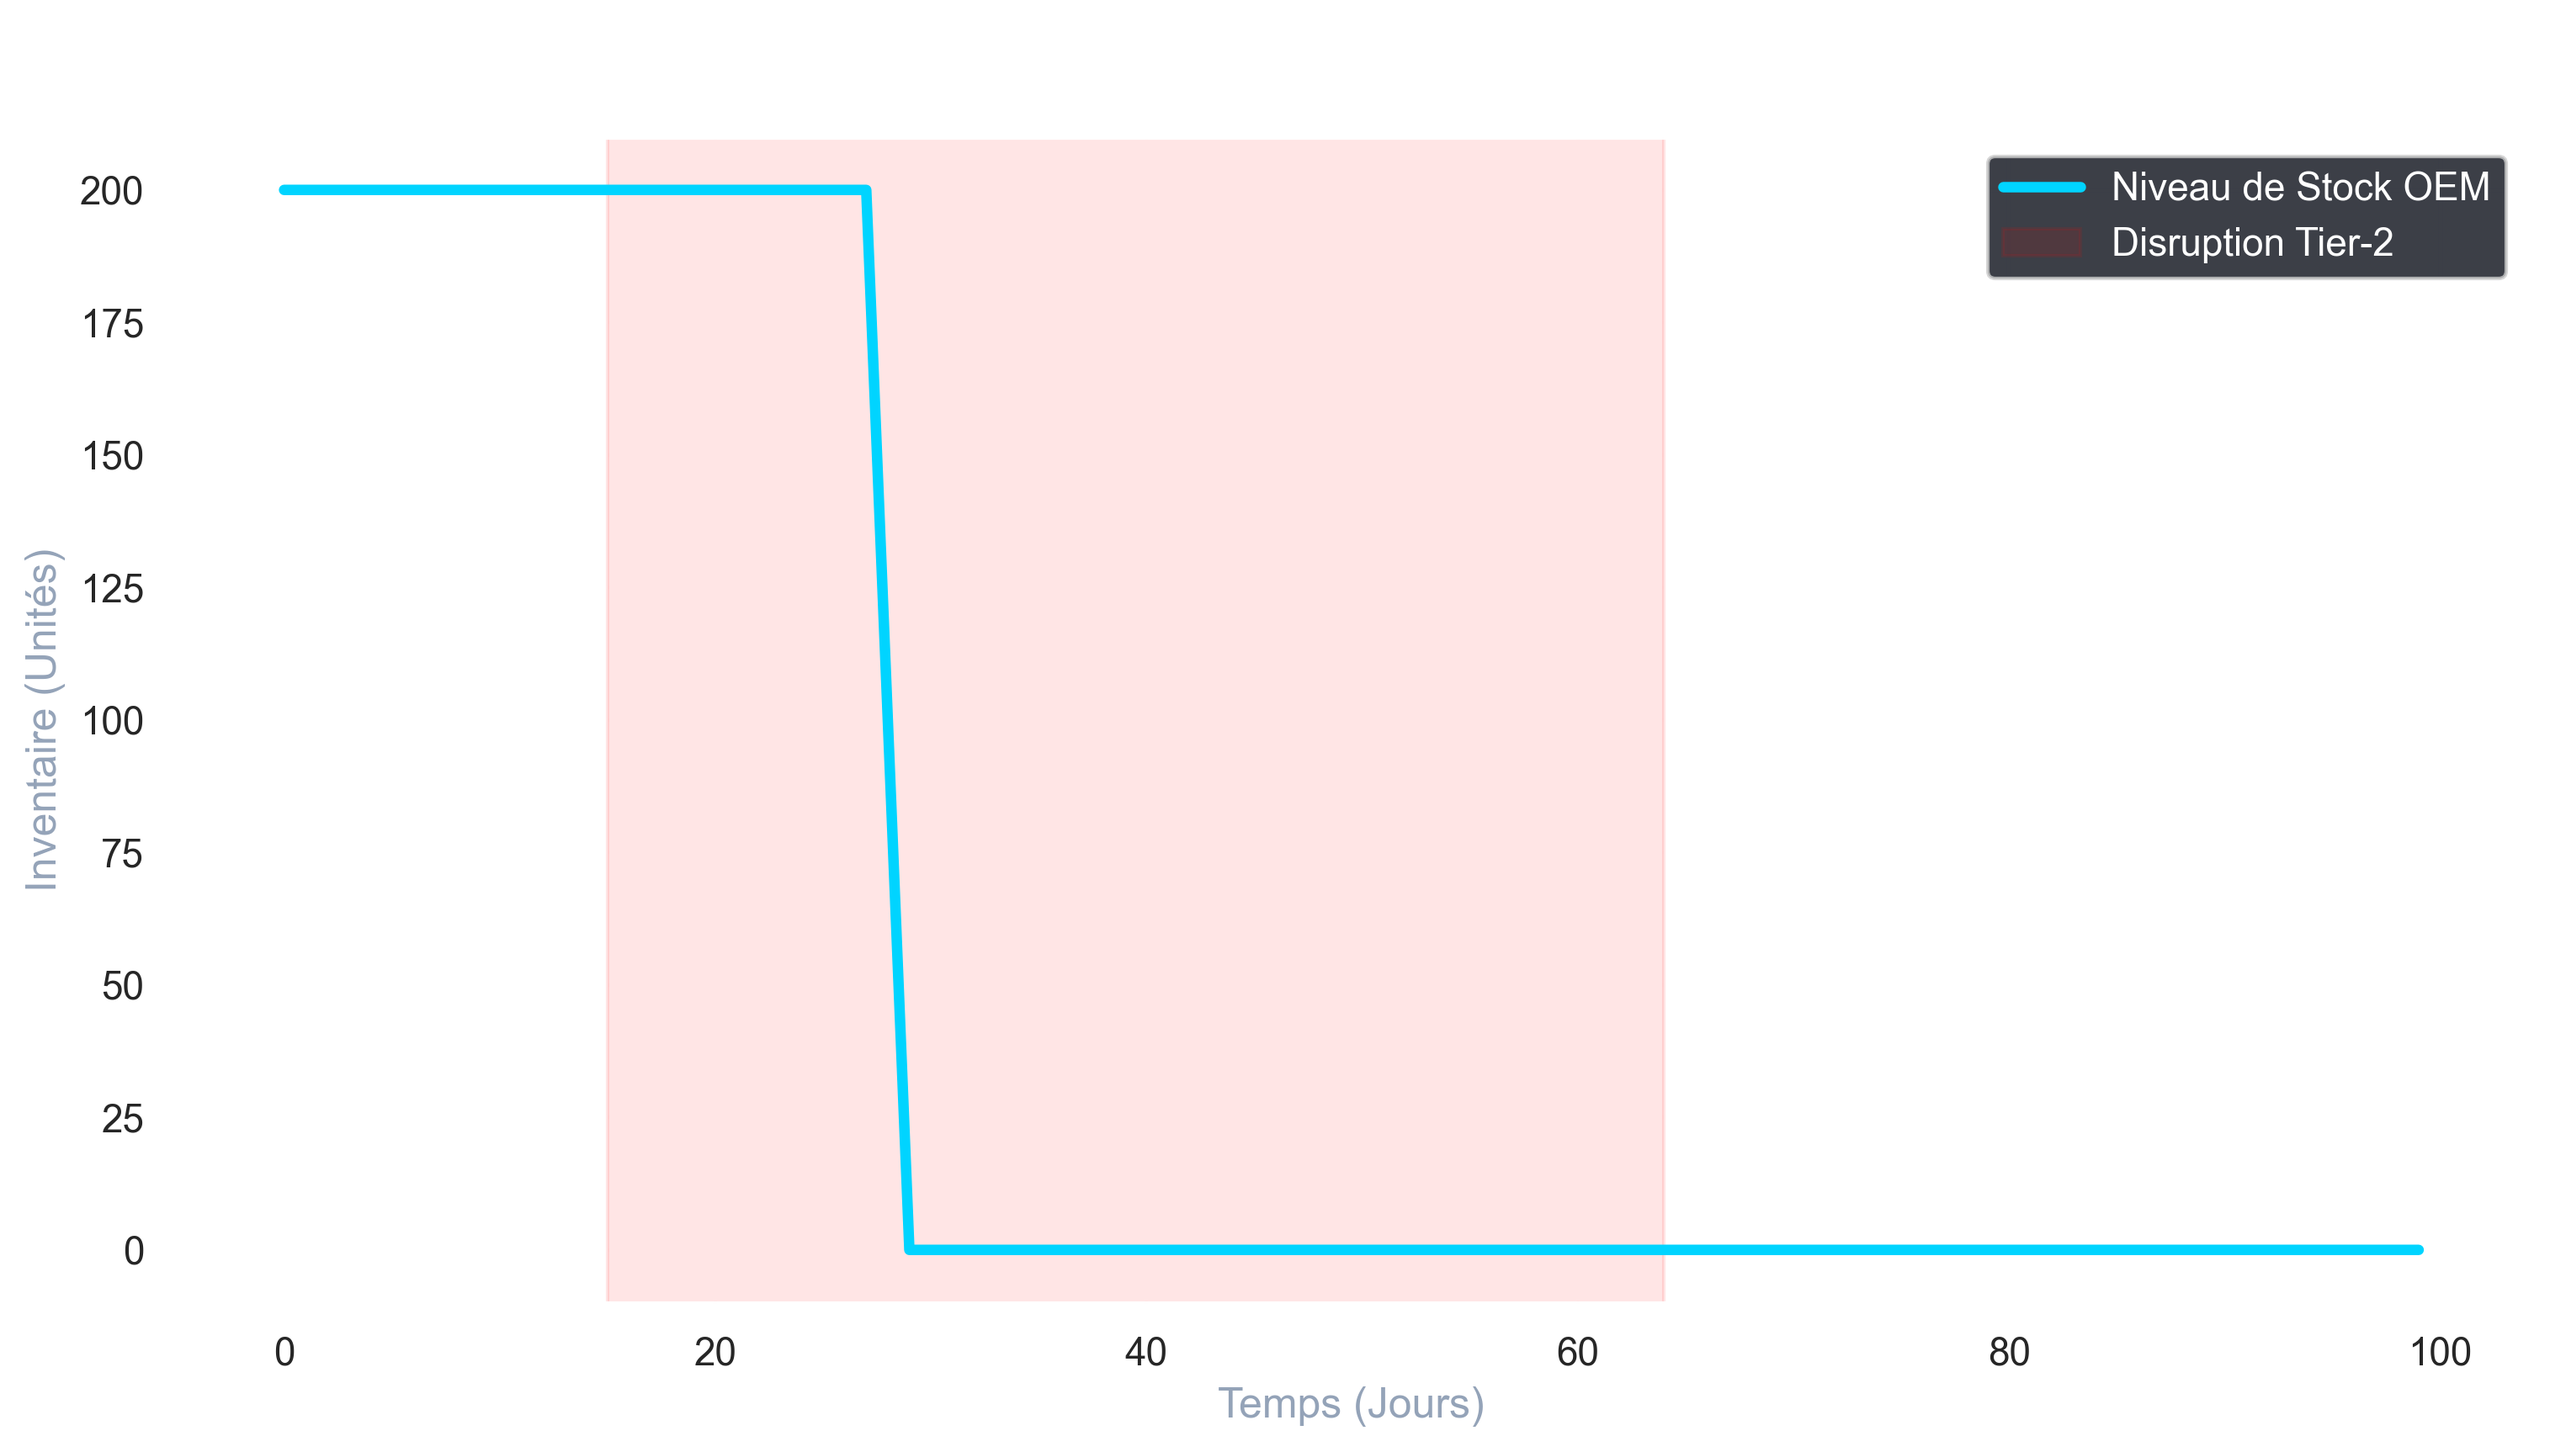
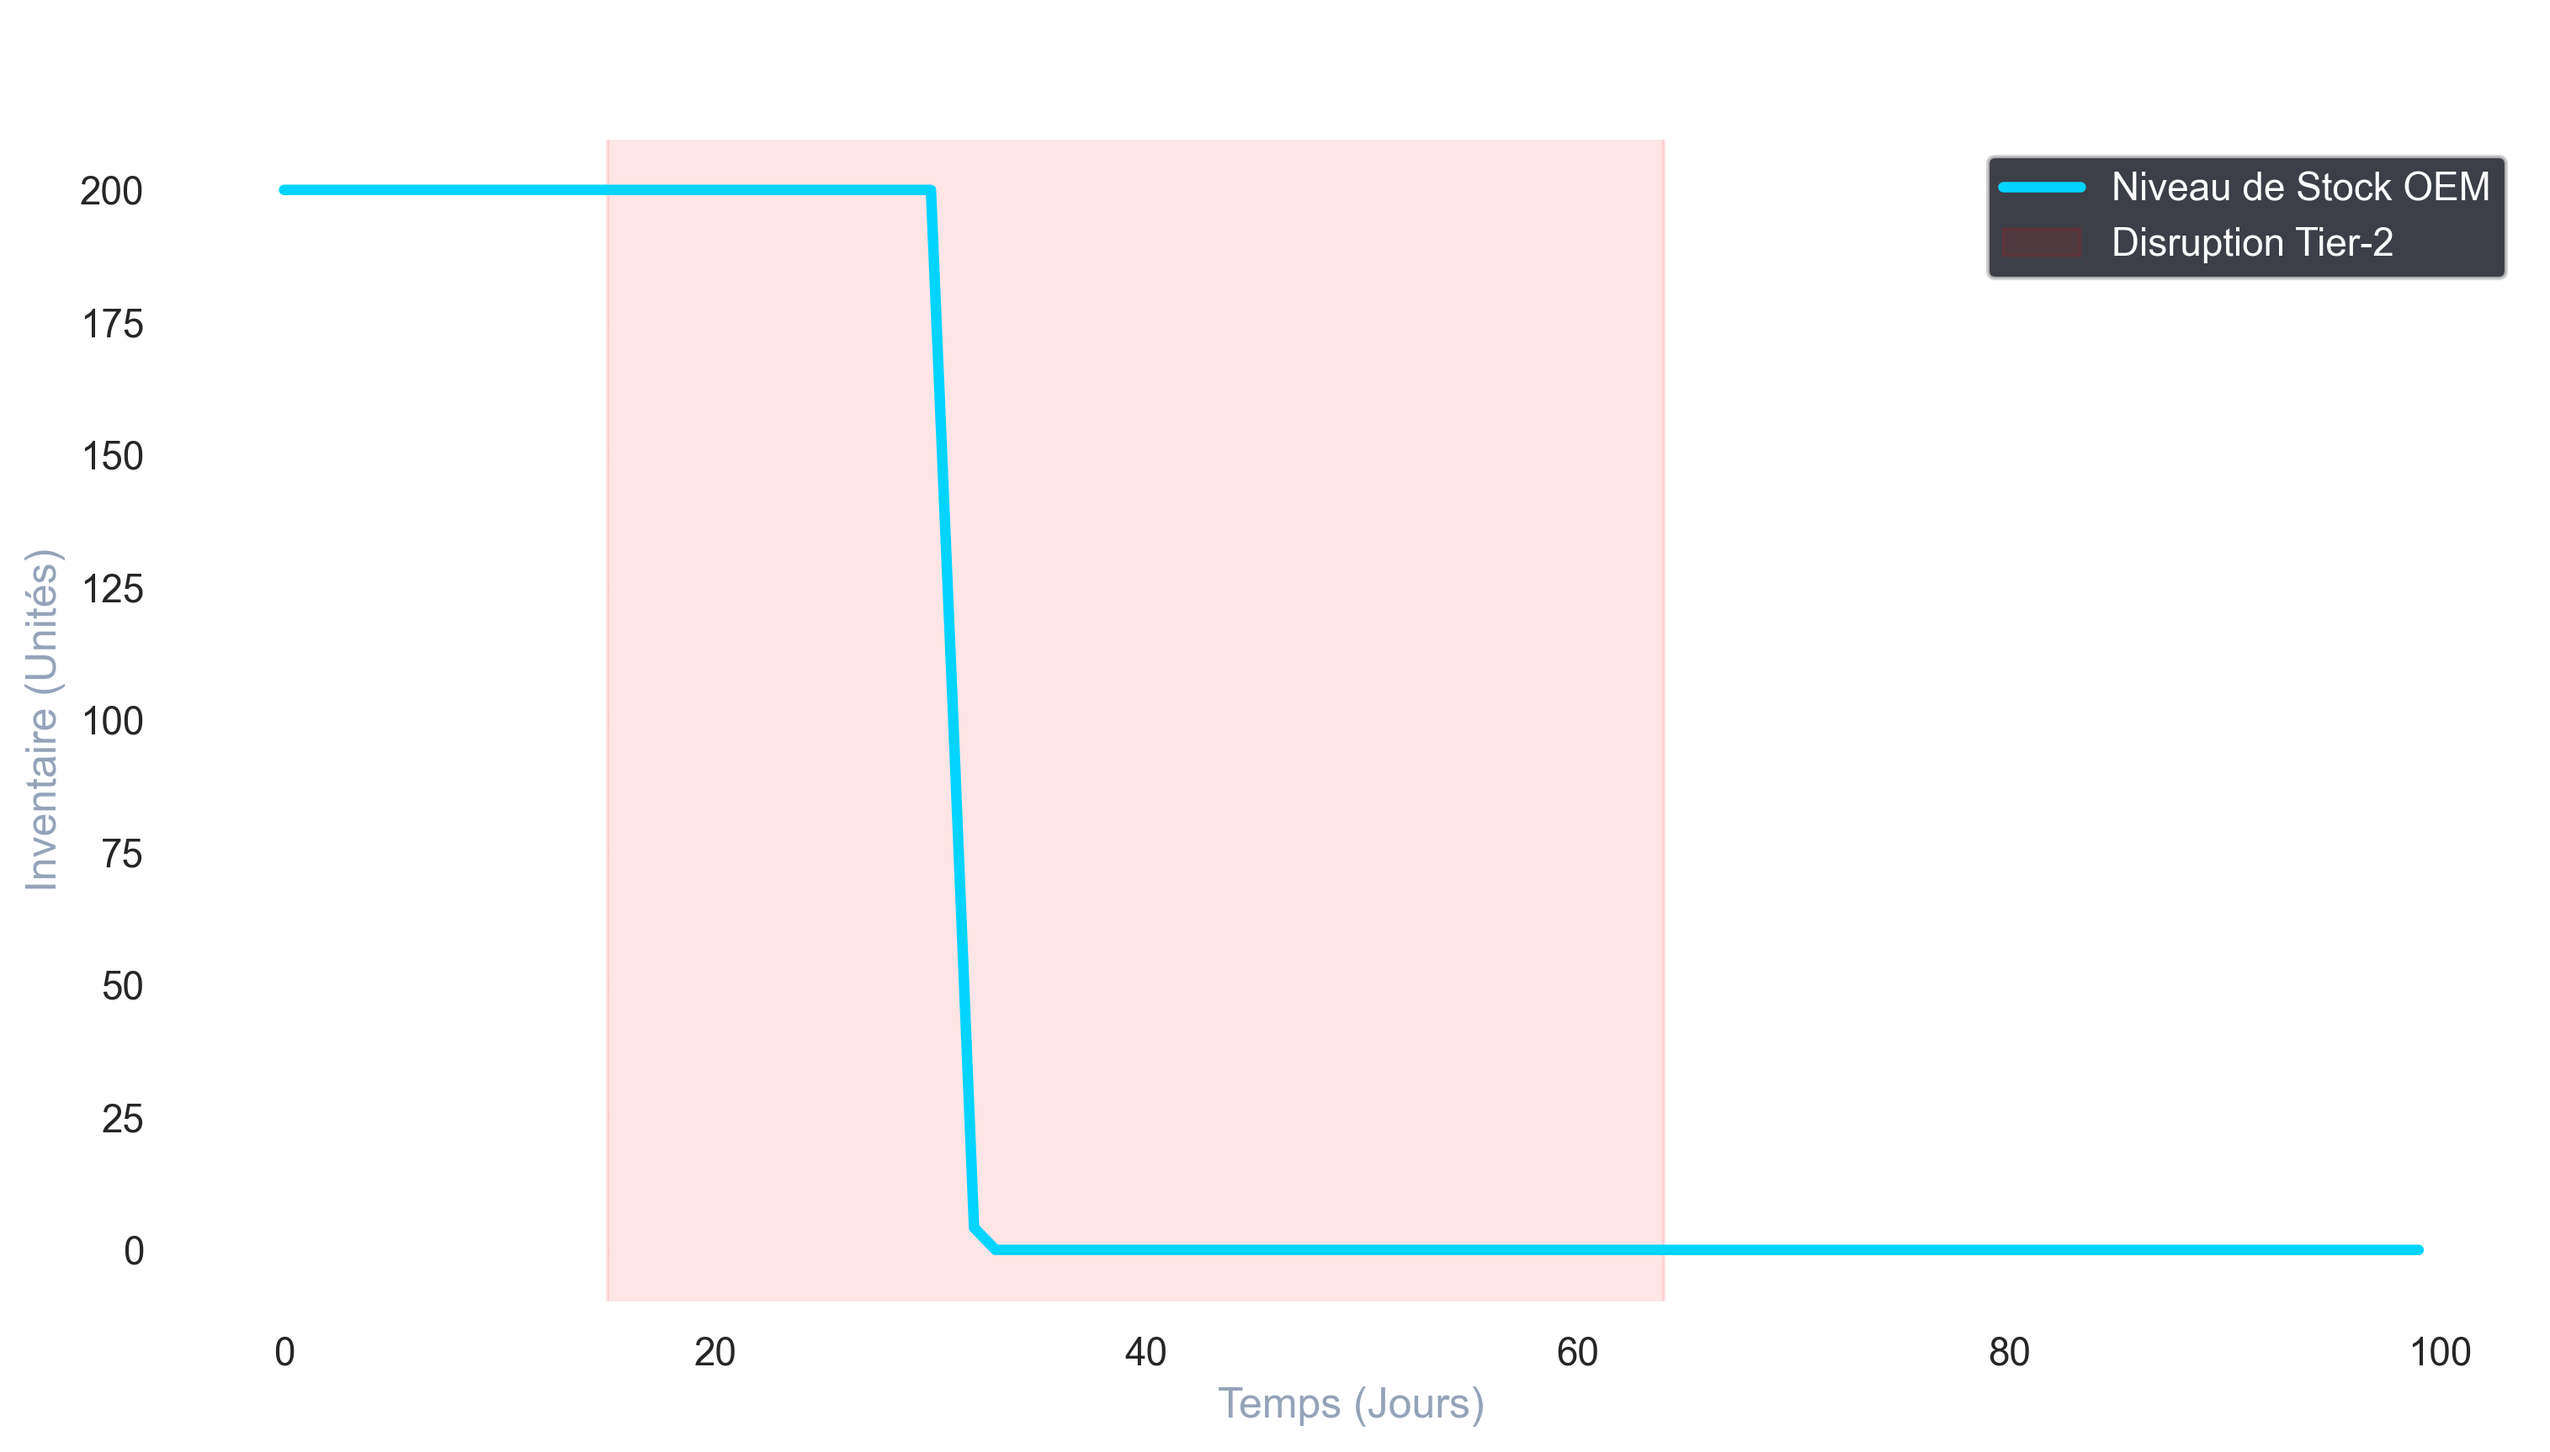
feat: add stochasticity and ramp-up logic

Changed region(s): [[0.3413, 0.1228, 0.4033, 0.8598]]

diff --git a/src/engine/simulation.py b/src/engine/simulation.py
@@ -1,12 +1,13 @@
 import simpy
+import random # IMPORT
 from typing import Optional
 from src.models.network import SCNetworkManager
 
 class ResilienceEngine:
     """
     Moteur de simulation de Jumeau Numérique (Digital Twin).
-    Intègre les concepts de 'Contingency Planning' (Ivanov) et 
-    'Agile Supply Chain' (Martin Christopher).
+    Intègre la stochasticité pour le réalisme et des stratégies de 
+    Contingency Planning (Dmitry Ivanov).
     """
     def __init__(self, env: simpy.Environment, network_manager: SCNetworkManager):
         self.env = env
@@ -17,63 +18,56 @@ class ResilienceEngine:
         node = self.nm.get_node(node_id)
         
         while True:
-            # 1. ÉTAT DE PANNE (Node Failure)
-            # Si le nœud lui-même subit une disruption (ex: grève interne)
+            # 1. ÉTAT DE PANNE DU NŒUD
             if node.status == "FAILED":
                 self._record_state(node_id, node.inventory)
                 yield self.env.timeout(1)
                 continue
 
-            # 2. STRATÉGIE DE RÉSILIENCE : DUAL SOURCING RÉACTIF
-            # On active le secours si le fournisseur principal (Asie) tombe
-            demand = 100 
-            
+            # Demande moyenne de 100 unités avec un écart-type de 5 (Loi Normale)
+            daily_demand = max(0, random.normalvariate(100, 5))
+
+            # 3. LOGIQUE DE RÉSILIENCE (Dual Sourcing & Ramp-up)
             if node_id == "EU_Elec_T1":
                 main_supplier = self.nm.get_node("AS_Semi_T2")
                 backup_supplier = self.nm.get_node("EU_BackUp_T2")
                 
                 if main_supplier.status == "FAILED":
-                    # OPTIMISATION : On achète 100% de la demande au secours
-                    # pour garantir un TTS indéfini (Zéro rupture)
-                    if backup_supplier.inventory >= demand:
-                        backup_supplier.inventory -= demand
-                        node.inventory += demand 
-                        print(f"[RESILIENCE] T={self.env.now}: Basculement total sur Backup Europe")
+                    # Modélisation d'une montée en charge (Ramp-up)
+                    # On ne récupère que 50% au début, puis 100% après 2 jours de crise
+                    capacity_available = 100 if self.env.now > 17 else 50
+                    if backup_supplier.inventory >= capacity_available:
+                        backup_supplier.inventory -= capacity_available
+                        node.inventory += capacity_available
+                        print(f"[STOCHASTIC] T={self.env.now}: Secours activé ({capacity_available} u.)")
 
-            # 3. FLUX NOMINAL (Just-in-Time)
+            # 4. FLUX DE MATIÈRES
             if input_node_id:
                 input_node = self.nm.get_node(input_node_id)
-                # Si le fournisseur amont est opérationnel et a du stock
-                if input_node.status == "OPERATIONAL" and input_node.inventory >= demand:
-                    input_node.inventory -= demand
-                    node.inventory += demand
-                else:
-                    # Rupture de stock amont : propagation de l'effet Ripple
-                    pass
+                # Consommation basée sur la demande stochastique
+                if input_node.inventory >= daily_demand:
+                    input_node.inventory -= daily_demand
+                    node.inventory += daily_demand
             else:
-                # Source primaire (Tier-2) : Production selon capacité
-                node.inventory += node.capacity
+                # Nœud Source : Production avec aléas techniques (95% à 105%)
+                node.inventory += node.capacity * random.uniform(0.95, 1.05)
 
-            # 4. CONSOMMATION FINALE (Expédition OEM)
-            # Simule la sortie des véhicules finis de l'usine française
+            # 5. EXPÉDITION OEM (Sortie de stock)
             if node.node_type == "oem":
-                node.inventory = max(0, node.inventory - demand)
+                node.inventory = max(0, node.inventory - daily_demand)
 
-            # 5. ENREGISTREMENT DES DONNÉES
             self._record_state(node_id, node.inventory)
             yield self.env.timeout(1)
 
     def _record_state(self, node_id: str, level: float):
-        """Enregistrement pour analyse des KPIs (TTS/TTR)"""
         self.history.append({
             'time': self.env.now,
             'node': node_id,
-            'inventory': level,
+            'inventory': round(level, 2),
             'status': self.nm.get_node(node_id).status
         })
 
     def inject_disruption(self, node_id: str, start_time: int, duration: int):
-        """Simule un choc externe sur la chaîne logistique"""
         yield self.env.timeout(start_time)
         node = self.nm.get_node(node_id)
         node.status = "FAILED"

diff --git a/src/models/network.py b/src/models/network.py
@@ -19,7 +19,7 @@ class SCNetworkManager:
         # Stock de sécurité = 3 jours (soit 300 unités)
         nodes = [
             AutomotiveNode("AS_Semi_T2", "tier2", 100, 500), # Principal (Asie)
-            AutomotiveNode("EU_BackUp_T2", "tier2", 100, 1000),   # SECOURS (Europe) - Capacité 50
+            AutomotiveNode("EU_BackUp_T2", "tier2", 100, 1000),   # SECOURS (Europe)
             AutomotiveNode("EU_Elec_T1", "tier1", 100, 300), # Sous-traitant
             AutomotiveNode("FR_Plant_OEM", "oem", 100, 200)  # Usine France
         ]
